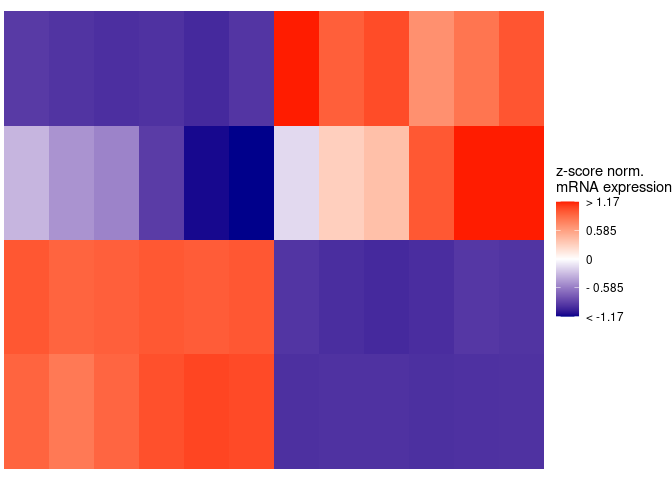
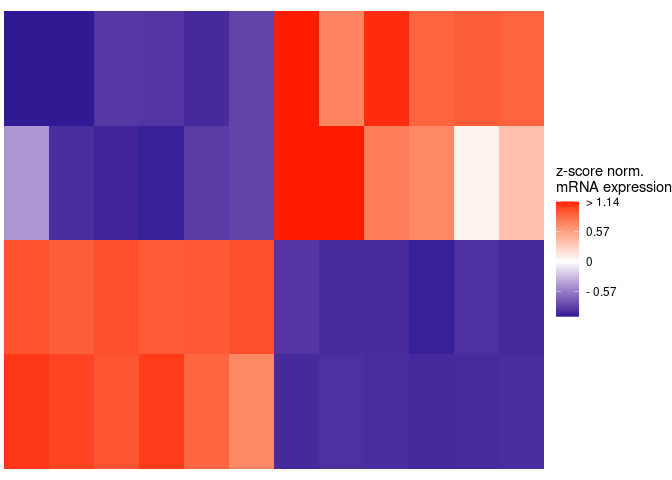
edited readme

diff --git a/README.md b/README.md
@@ -6,12 +6,12 @@
 <!-- badges: start -->
 <!-- badges: end -->
 
-The goal of simpleHM is to provide as simple yet modular approach to
-create heatmap visualisations.
+The goal of simpleHM is to …
 
 ## Installation
 
-You can install the development version of simpleHM like so:
+You can install the development version of simpleHM from
+[GitHub](https://github.com/) with:
 
 ``` r
 # install.packages("devtools")
@@ -27,18 +27,68 @@ library(simpleHM)
 df <- data.frame(samples = c(paste0("untreated", 1:6), paste0("treated", 7:12)),
                  group = c(rep("Untreated",6), rep("Treated",6)),
                  patient = c(rep(paste0("Patient", 1:3), 4)),
+                 batch = rep(1:2, 6),
                  var1 = c(rnorm(6, 10, 1),  rnorm(6, 7, .7)),
                  var2 = c(rnorm(6, 10, 1),  rnorm(6, 200, 10)),
                  var3 = c(rnorm(6, 50, 5),  rnorm(6, 10, 1)),
                  var4 = c(rnorm(6, 10, 1),  rnorm(6, 60, .7)))
 
-heatmap_plot <- simpleHM(df)    
+heatmap_plot <- simpleHM(df, excluded_vars = "batch")    
 #> normalisation done
 #> clustering samples done
 #> clustering params done
-#> test
 #> plotting now
 heatmap_plot
 ```
 
 <img src="man/figures/README-example-1.png" width="100%" />
+
+You can also add Annotaiton bars for several of the conditions by using
+the `add_annotation` parameter:
+
+``` r
+hm_with_anno <- simpleHM(df, add_annotation = T, anno_col = c("group", "patient"), excluded_vars = "batch")
+#> normalisation done
+#> clustering samples done
+#> clustering params done
+#> plotting now
+#> adding annotation
+#> wrapping plots up
+hm_with_anno
+```
+
+<img src="man/figures/README-unnamed-chunk-2-1.png" width="100%" />
+
+By default, the samples and parameters are clustered. To display the
+dendrograms, set `add_dendros=T`.
+
+``` r
+hm_with_dendro <- simpleHM(df, excluded_vars = "batch", add_dendros = T)
+#> normalisation done
+#> clustering samples done
+#> clustering params done
+#> plotting now
+#> Scale for y is already present.
+#> Adding another scale for y, which will replace the existing scale.
+#> Scale for x is already present.
+#> Adding another scale for x, which will replace the existing scale.
+```
+
+These options can also be combined:
+
+``` r
+annotated_hm_with_dendro <- simpleHM(df, excluded_vars = "batch", add_annotation = T, anno_col = c("group", "patient"), add_dendros = T)
+#> normalisation done
+#> clustering samples done
+#> clustering params done
+#> plotting now
+#> adding annotation
+#> wrapping plots up
+#> Scale for y is already present.
+#> Adding another scale for y, which will replace the existing scale.
+#> Scale for x is already present.
+#> Adding another scale for x, which will replace the existing scale.
+annotated_hm_with_dendro
+```
+
+<img src="man/figures/README-unnamed-chunk-4-1.png" width="100%" />
